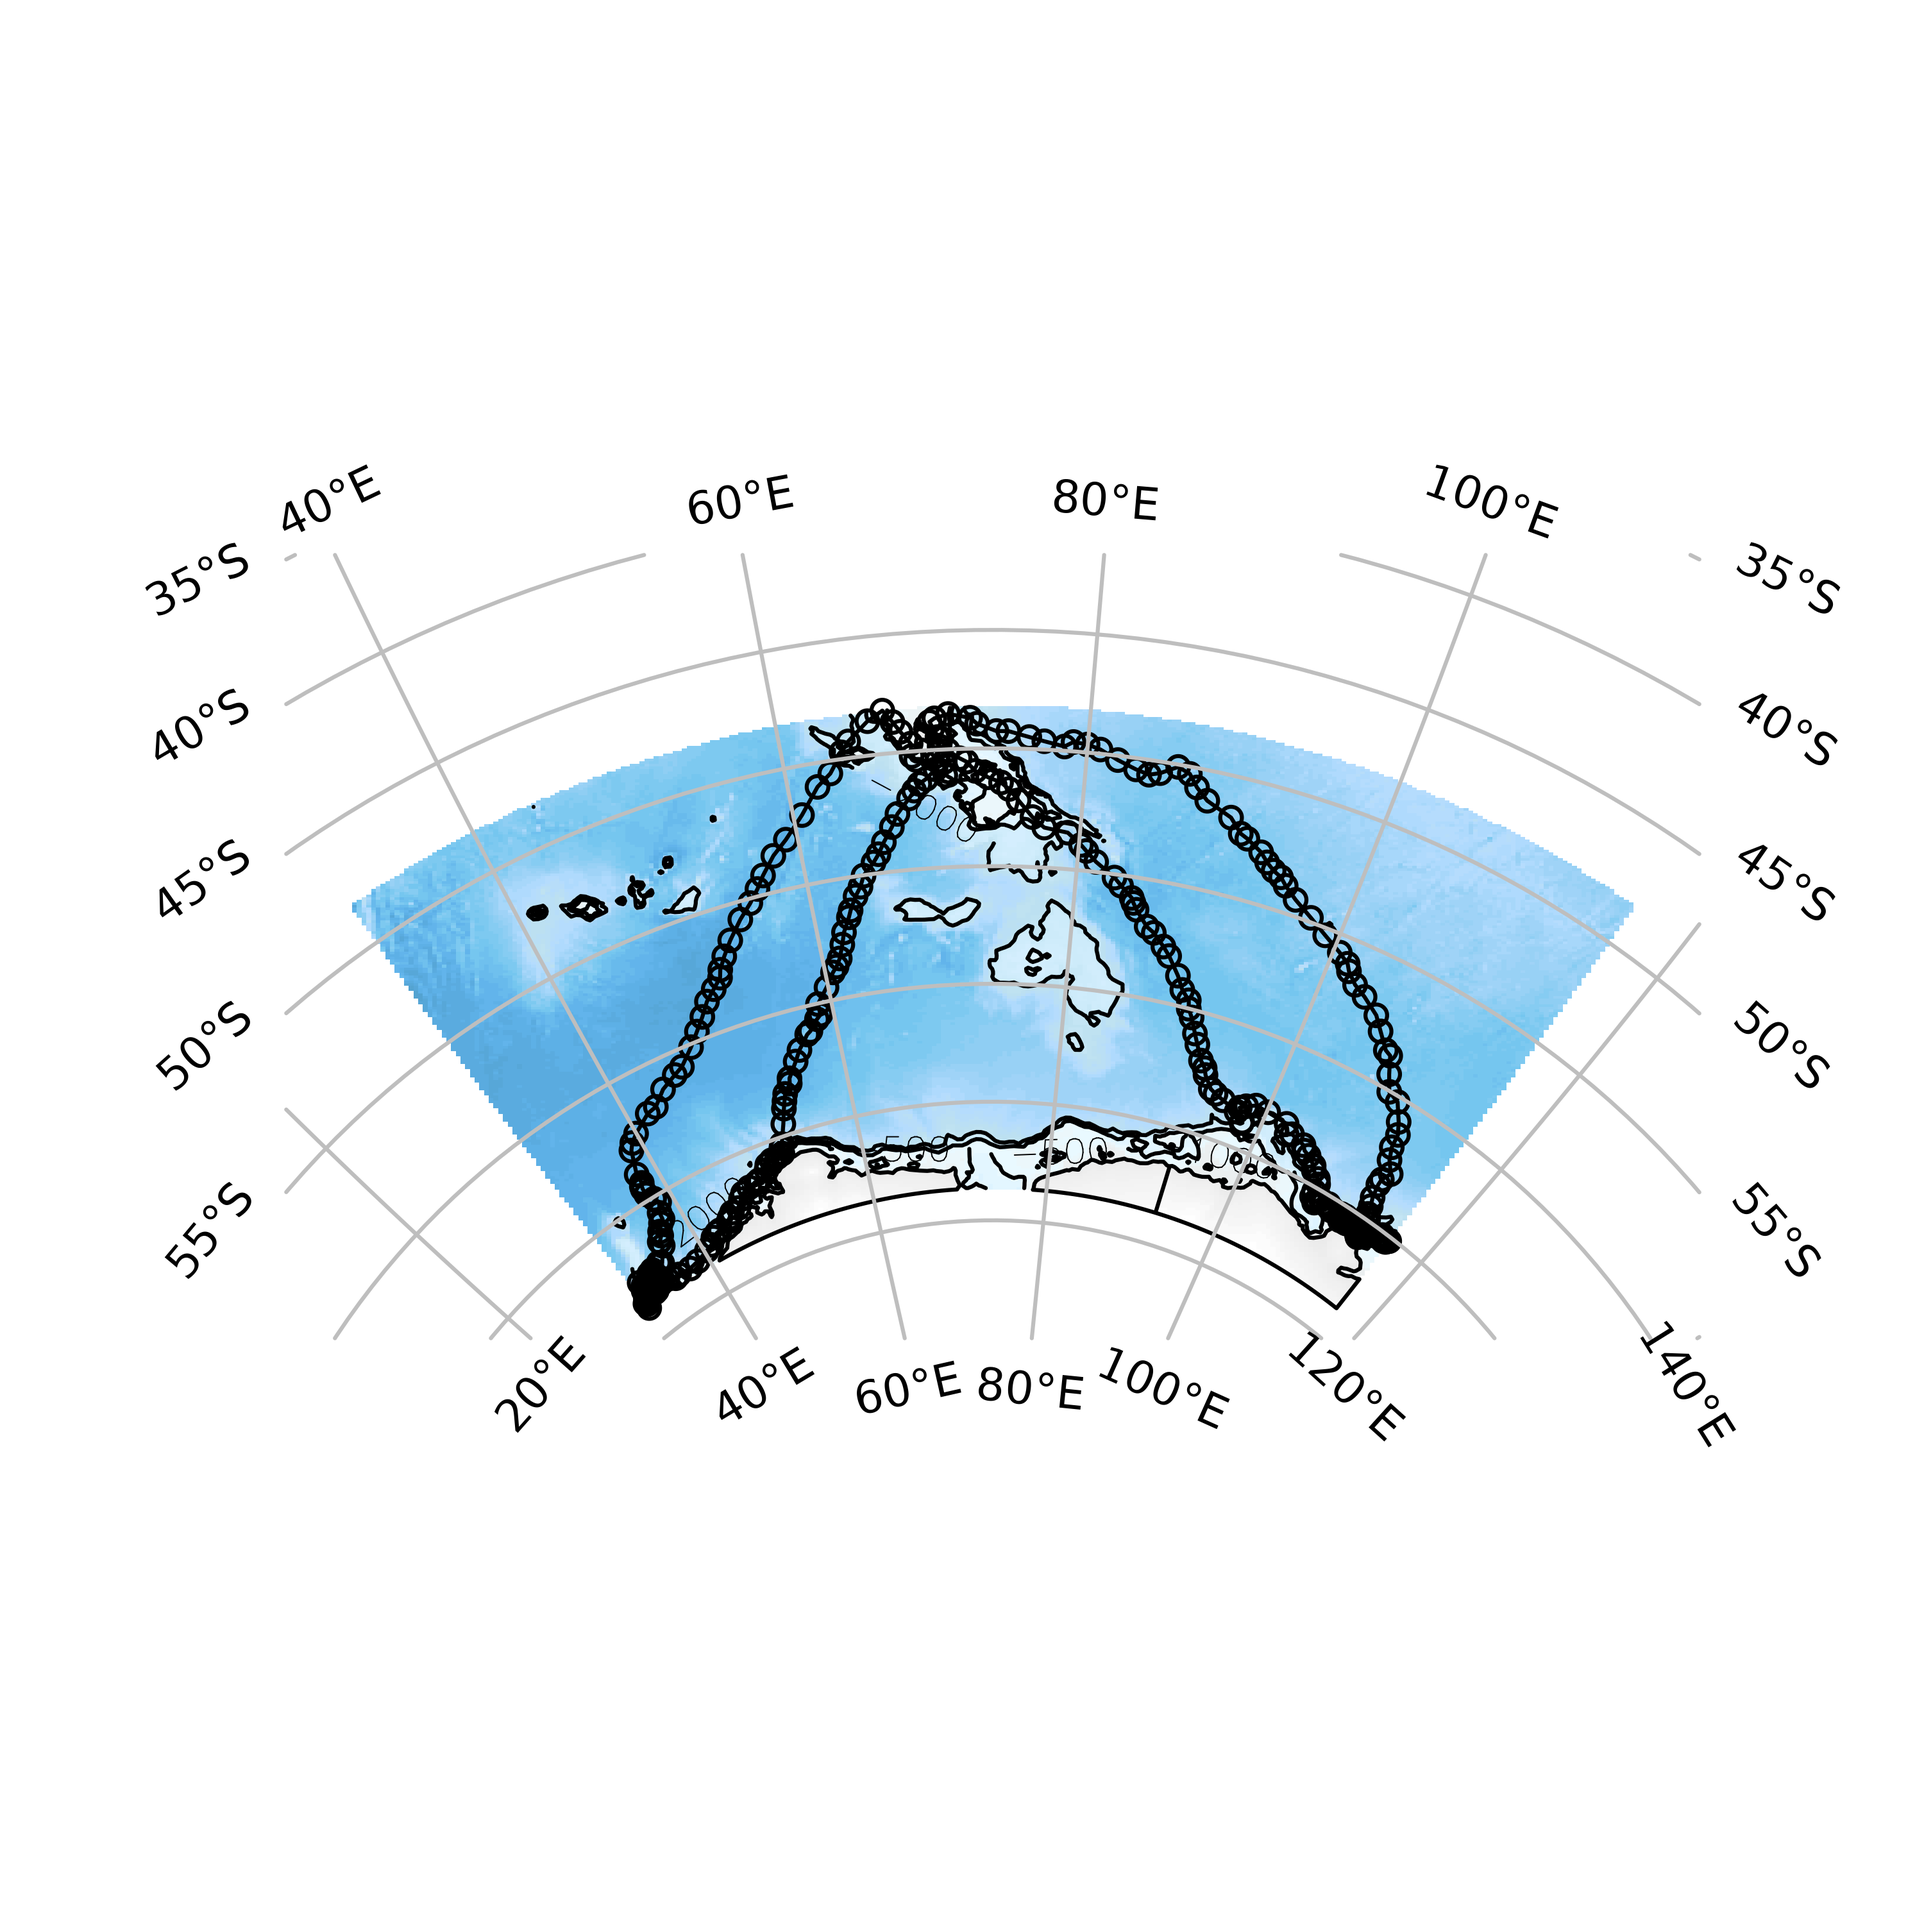
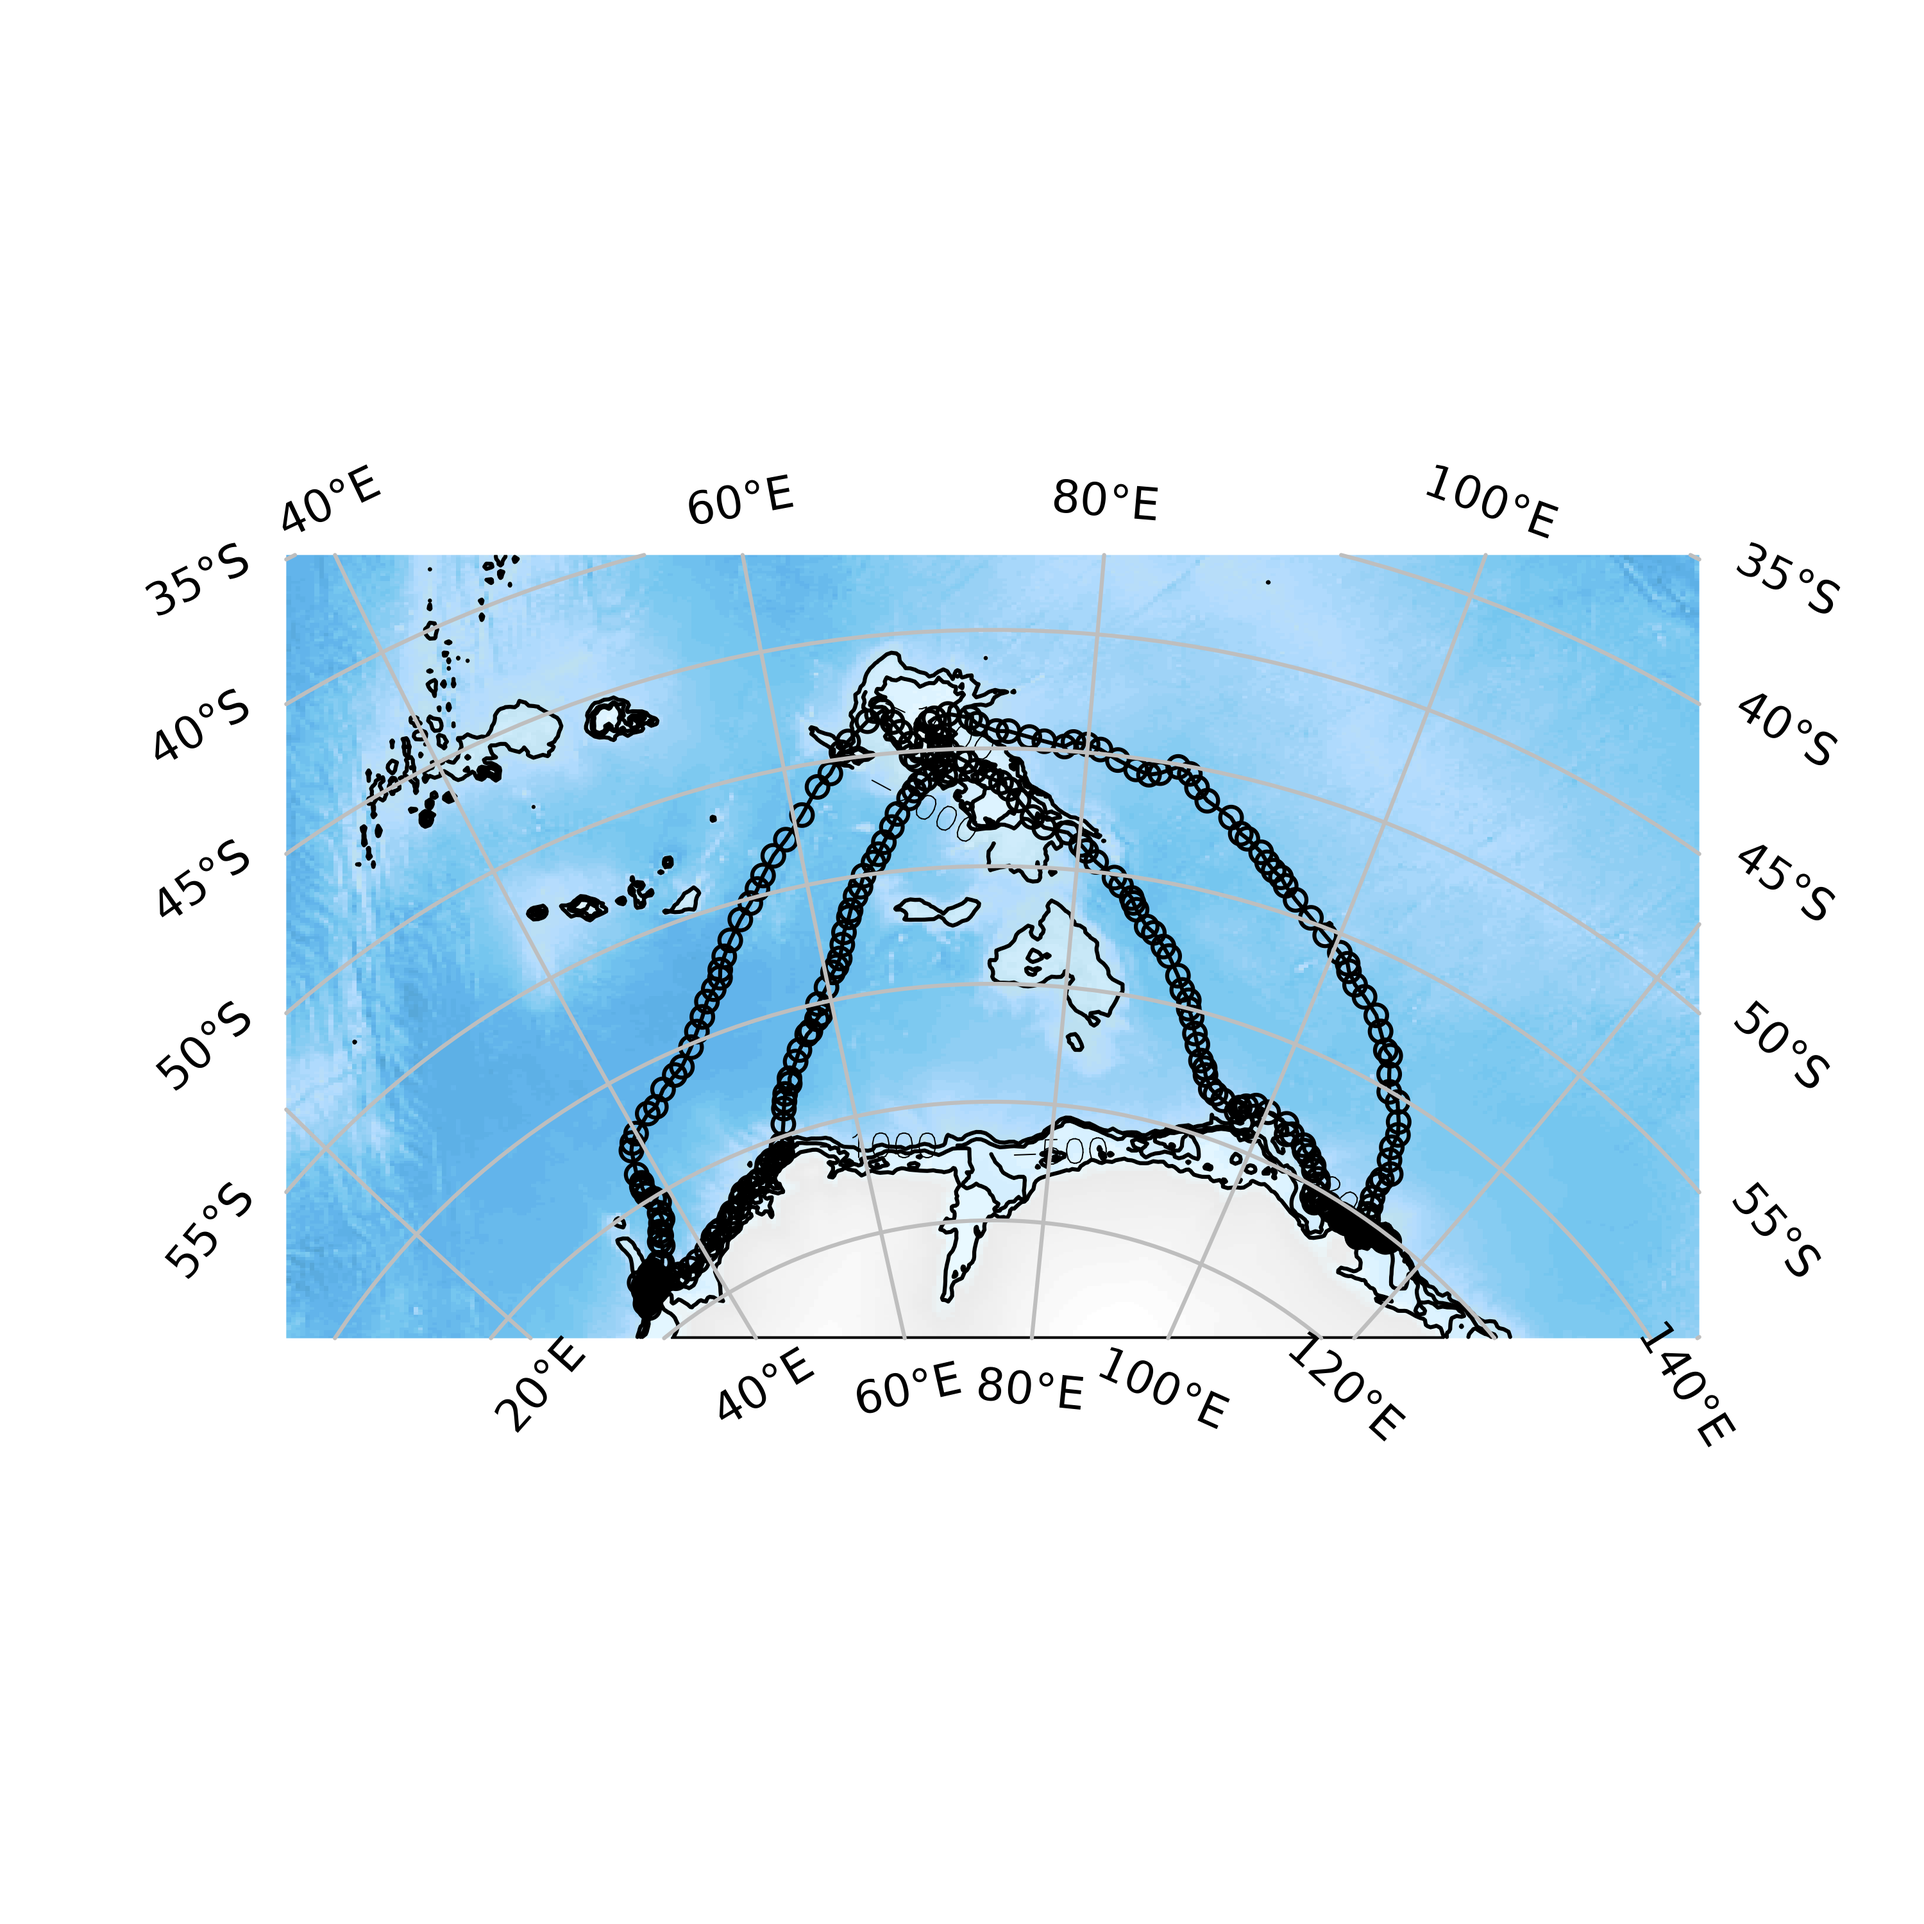
fix paths

diff --git a/docs/index.html b/docs/index.html
@@ -117,8 +117,8 @@
 <div class="sourceCode" id="cb5"><pre class="sourceCode r"><code class="sourceCode r"><a class="sourceLine" id="cb5-1" data-line-number="1"></a>
 <a class="sourceLine" id="cb5-2" data-line-number="2"><span class="kw">graphics.off</span>()</a>
 <a class="sourceLine" id="cb5-3" data-line-number="3"><span class="kw">data</span>(<span class="st">"albatross"</span>, <span class="dt">package =</span> <span class="st">"adehabitatLT"</span>)</a>
-<a class="sourceLine" id="cb5-4" data-line-number="4">track &lt;-<span class="st"> </span>rgdal<span class="op">::</span><span class="kw"><a href="http://www.rdocumentation.org/packages/rgdal/topics/project">project</a></span>(<span class="kw">as.matrix</span>(purrr<span class="op">::</span><span class="kw"><a href="http://www.rdocumentation.org/packages/purrr/topics/map">map_df</a></span>(albatross, <span class="op">~</span><span class="kw">rbind</span>(.x[<span class="kw">c</span>(<span class="st">"x"</span>, <span class="st">"y"</span>)], <span class="ot">NA</span>))), <span class="st">"+proj=utm +zone=42 +south +datum=WGS84"</span>, <span class="dt">inv =</span> <span class="ot">TRUE</span>)</a>
-<a class="sourceLine" id="cb5-5" data-line-number="5">ellie_map &lt;-<span class="st"> </span><span class="kw"><a href="reference/SOauto_map.html">SOauto_map</a></span>(track[,<span class="dv">1</span>], track[,<span class="dv">2</span>])</a></code></pre></div>
+<a class="sourceLine" id="cb5-4" data-line-number="4">albatrack &lt;-<span class="st"> </span>rgdal<span class="op">::</span><span class="kw"><a href="http://www.rdocumentation.org/packages/rgdal/topics/project">project</a></span>(<span class="kw">as.matrix</span>(purrr<span class="op">::</span><span class="kw"><a href="http://www.rdocumentation.org/packages/purrr/topics/map">map_df</a></span>(albatross, <span class="op">~</span><span class="kw">rbind</span>(.x[<span class="kw">c</span>(<span class="st">"x"</span>, <span class="st">"y"</span>)], <span class="ot">NA</span>))), <span class="st">"+proj=utm +zone=42 +south +datum=WGS84"</span>, <span class="dt">inv =</span> <span class="ot">TRUE</span>)</a>
+<a class="sourceLine" id="cb5-5" data-line-number="5">ellie_map &lt;-<span class="st"> </span><span class="kw"><a href="reference/SOauto_map.html">SOauto_map</a></span>(albatrack[,<span class="dv">1</span>], albatrack[,<span class="dv">2</span>])</a></code></pre></div>
 <p>Notice how we may use the plot interactively or also return the data for further exploration.</p>
 <div class="sourceCode" id="cb6"><pre class="sourceCode r"><code class="sourceCode r"><a class="sourceLine" id="cb6-1" data-line-number="1"><span class="kw">names</span>(ellie_map)</a>
 <a class="sourceLine" id="cb6-2" data-line-number="2"><span class="co">#&gt; [1] "bathy"     "coastline" "target"    "data"      "graticule" "crs"</span></a></code></pre></div>

diff --git a/docs/reference/SOauto_map.html b/docs/reference/SOauto_map.html
@@ -117,7 +117,7 @@ to run the function without any inputs at all and it will provide a random defau
   <span class='kw'>bathy</span> <span class='kw'>=</span> <span class='fl'>TRUE</span>, <span class='kw'>coast</span> <span class='kw'>=</span> <span class='fl'>TRUE</span>, <span class='kw'>input_points</span> <span class='kw'>=</span> <span class='fl'>TRUE</span>,
   <span class='kw'>input_lines</span> <span class='kw'>=</span> <span class='fl'>TRUE</span>, <span class='kw'>graticule</span> <span class='kw'>=</span> <span class='fl'>TRUE</span>, <span class='kw'>buffer</span> <span class='kw'>=</span> <span class='fl'>0.05</span>,
   <span class='kw'>contours</span> <span class='kw'>=</span> <span class='fl'>TRUE</span>, <span class='kw'>levels</span> <span class='kw'>=</span> <span class='fu'>c</span>(-<span class='fl'>500</span>, -<span class='fl'>1000</span>, -<span class='fl'>2000</span>),
-  <span class='kw'>trim_background</span> <span class='kw'>=</span> <span class='fl'>TRUE</span>, <span class='kw'>mask</span> <span class='kw'>=</span> <span class='fl'>TRUE</span>)</pre>
+  <span class='kw'>trim_background</span> <span class='kw'>=</span> <span class='fl'>TRUE</span>, <span class='kw'>mask</span> <span class='kw'>=</span> <span class='fl'>FALSE</span>)</pre>
     
     <h2 class="hasAnchor" id="arguments"><a class="anchor" href="#arguments"></a>Arguments</h2>
     <table class="ref-arguments">
@@ -188,7 +188,7 @@ to run the function without any inputs at all and it will provide a random defau
     </tr>
     <tr>
       <th>mask</th>
-      <td><p>logical, used to mask the raster to the graticule</p></td>
+      <td><p>logical, `FALSE` by default used to mask the raster and coastline to the graticule</p></td>
     </tr>
     </table>
     
@@ -201,6 +201,7 @@ to run the function without any inputs at all and it will provide a random defau
     <p>To input your data, use input locations as `x` (longitude) and `y` (latitude) values, there must be at least
 two locations.</p>
 <p>Try families such as 'lcc', 'laea', 'gnom', 'merc', 'aea' if feeling adventurous.</p>
+<p>Using `mask = TRUE` does not work well when the pole is included, so it's `FALSE` by default.</p>
     
 
     <h2 class="hasAnchor" id="examples"><a class="anchor" href="#examples"></a>Examples</h2>

diff --git a/README.md b/README.md
@@ -61,9 +61,10 @@ SOmanagement(EEZ = TRUE)
 
 <img src="man/figures/README-management-1.png" width="100%" />
 
-An **auto** plot function will take any data in the form of longitude
-and latitude vectors and create a guess at a map. It returns the data
-used to make the map so that further customization can be made.
+An **automatic** plot function `SOauto_map()` will take any data in the
+form of longitude and latitude vectors and create a guess at a map. It
+returns the data used to make the map so that further customization can
+be made.
 
 ``` r
 tfile <- tempfile(fileext = "RData")
@@ -81,8 +82,8 @@ SOauto_map(track[,1], track[,2])
 
 graphics.off()
 data("albatross", package = "adehabitatLT")
-track <- rgdal::project(as.matrix(purrr::map_df(albatross, ~rbind(.x[c("x", "y")], NA))), "+proj=utm +zone=42 +south +datum=WGS84", inv = TRUE)
-ellie_map <- SOauto_map(track[,1], track[,2])
+albatrack <- rgdal::project(as.matrix(purrr::map_df(albatross, ~rbind(.x[c("x", "y")], NA))), "+proj=utm +zone=42 +south +datum=WGS84", inv = TRUE)
+ellie_map <- SOauto_map(albatrack[,1], albatrack[,2])
 ```
 
 Notice how we may use the plot interactively or also return the data for
@@ -93,11 +94,12 @@ names(ellie_map)
 #> [1] "bathy"     "coastline" "target"    "data"      "graticule" "crs"
 ```
 
-Objects from `sf` or `sp` may also be used. If a ‘raster’ is given it is
-used only for its extent.
+Objects from `sf` or `sp` may also be used. (If a ‘raster’ is given it
+is used only for its extent.
+)
 
 ``` r
-SOauto_map(SOmap_data$fronts_orsi, family = "laea", centre_lon = 147)
+SOauto_map(SOmap_data$fronts_orsi, family = "laea", centre_lon = 147, input_points = FALSE)
 ```
 
 <img src="man/figures/README-automap-spatial-1.png" width="100%" />
